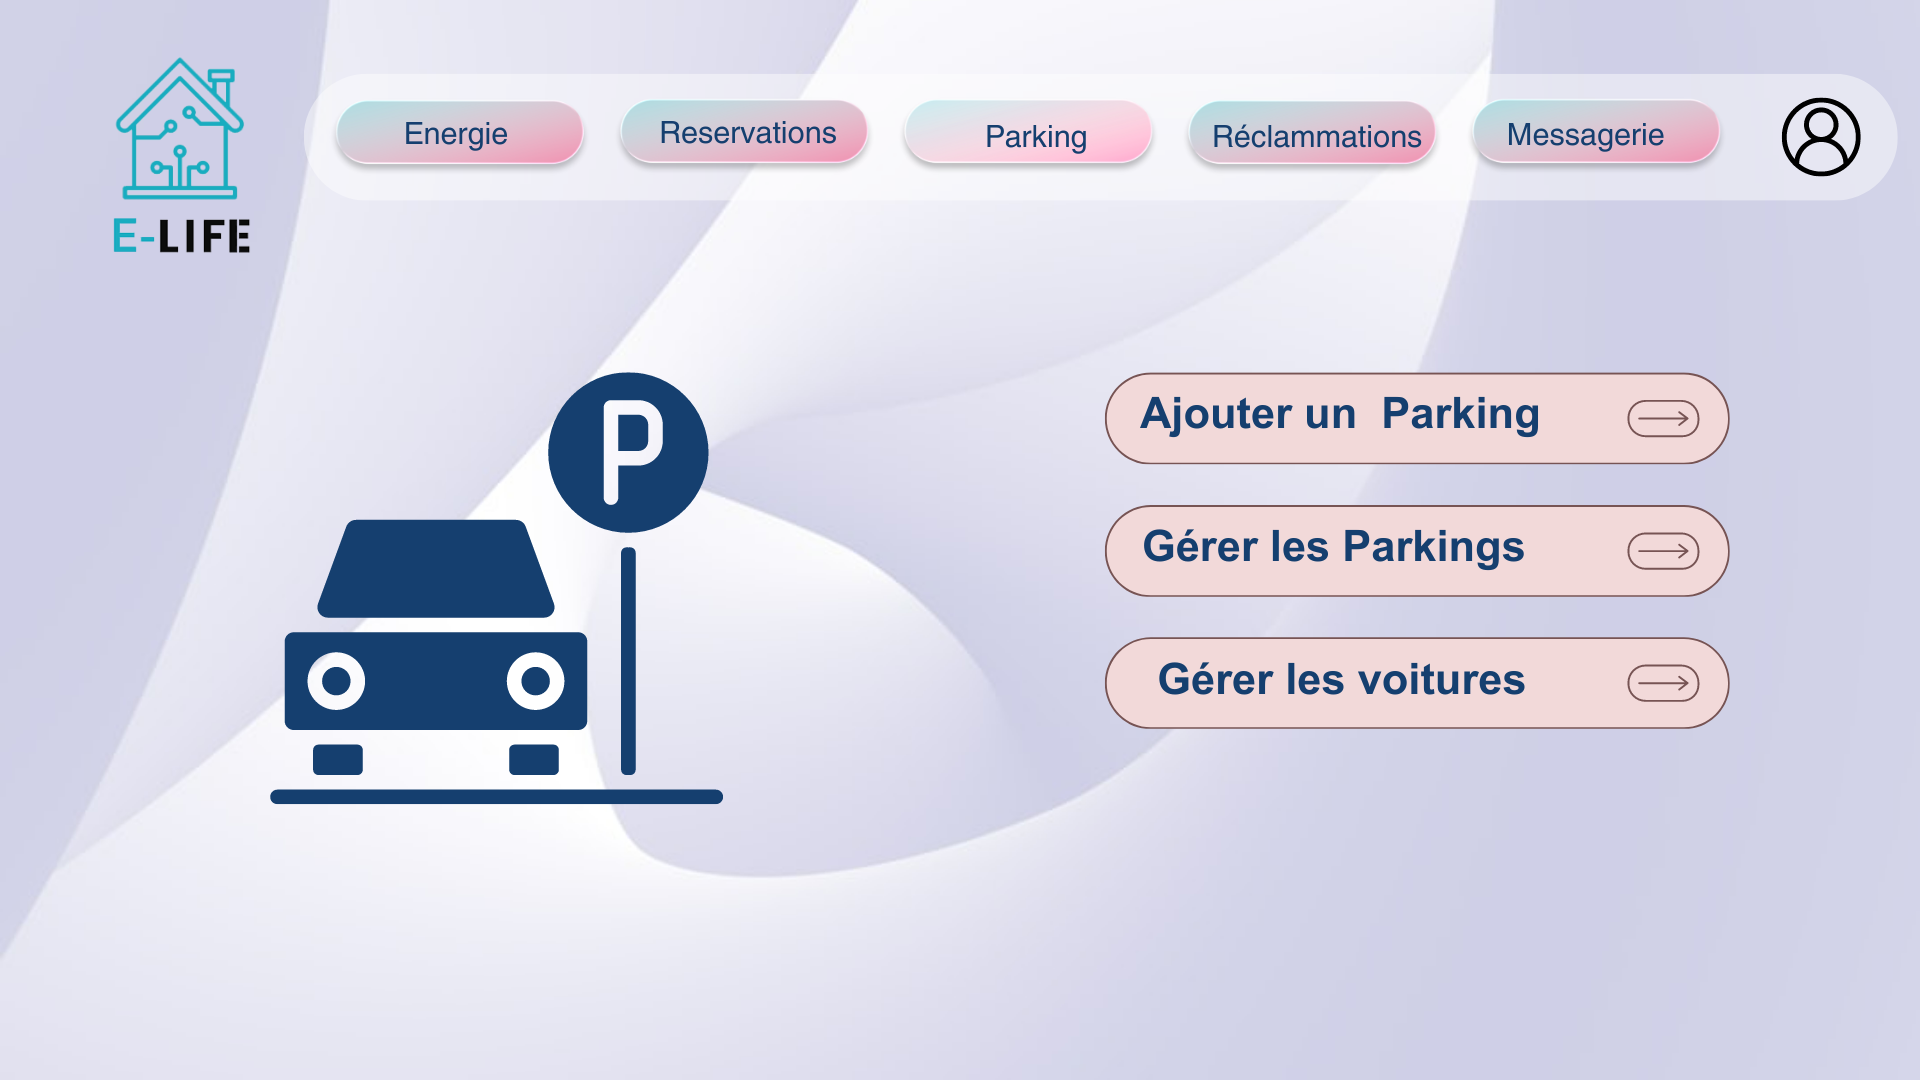
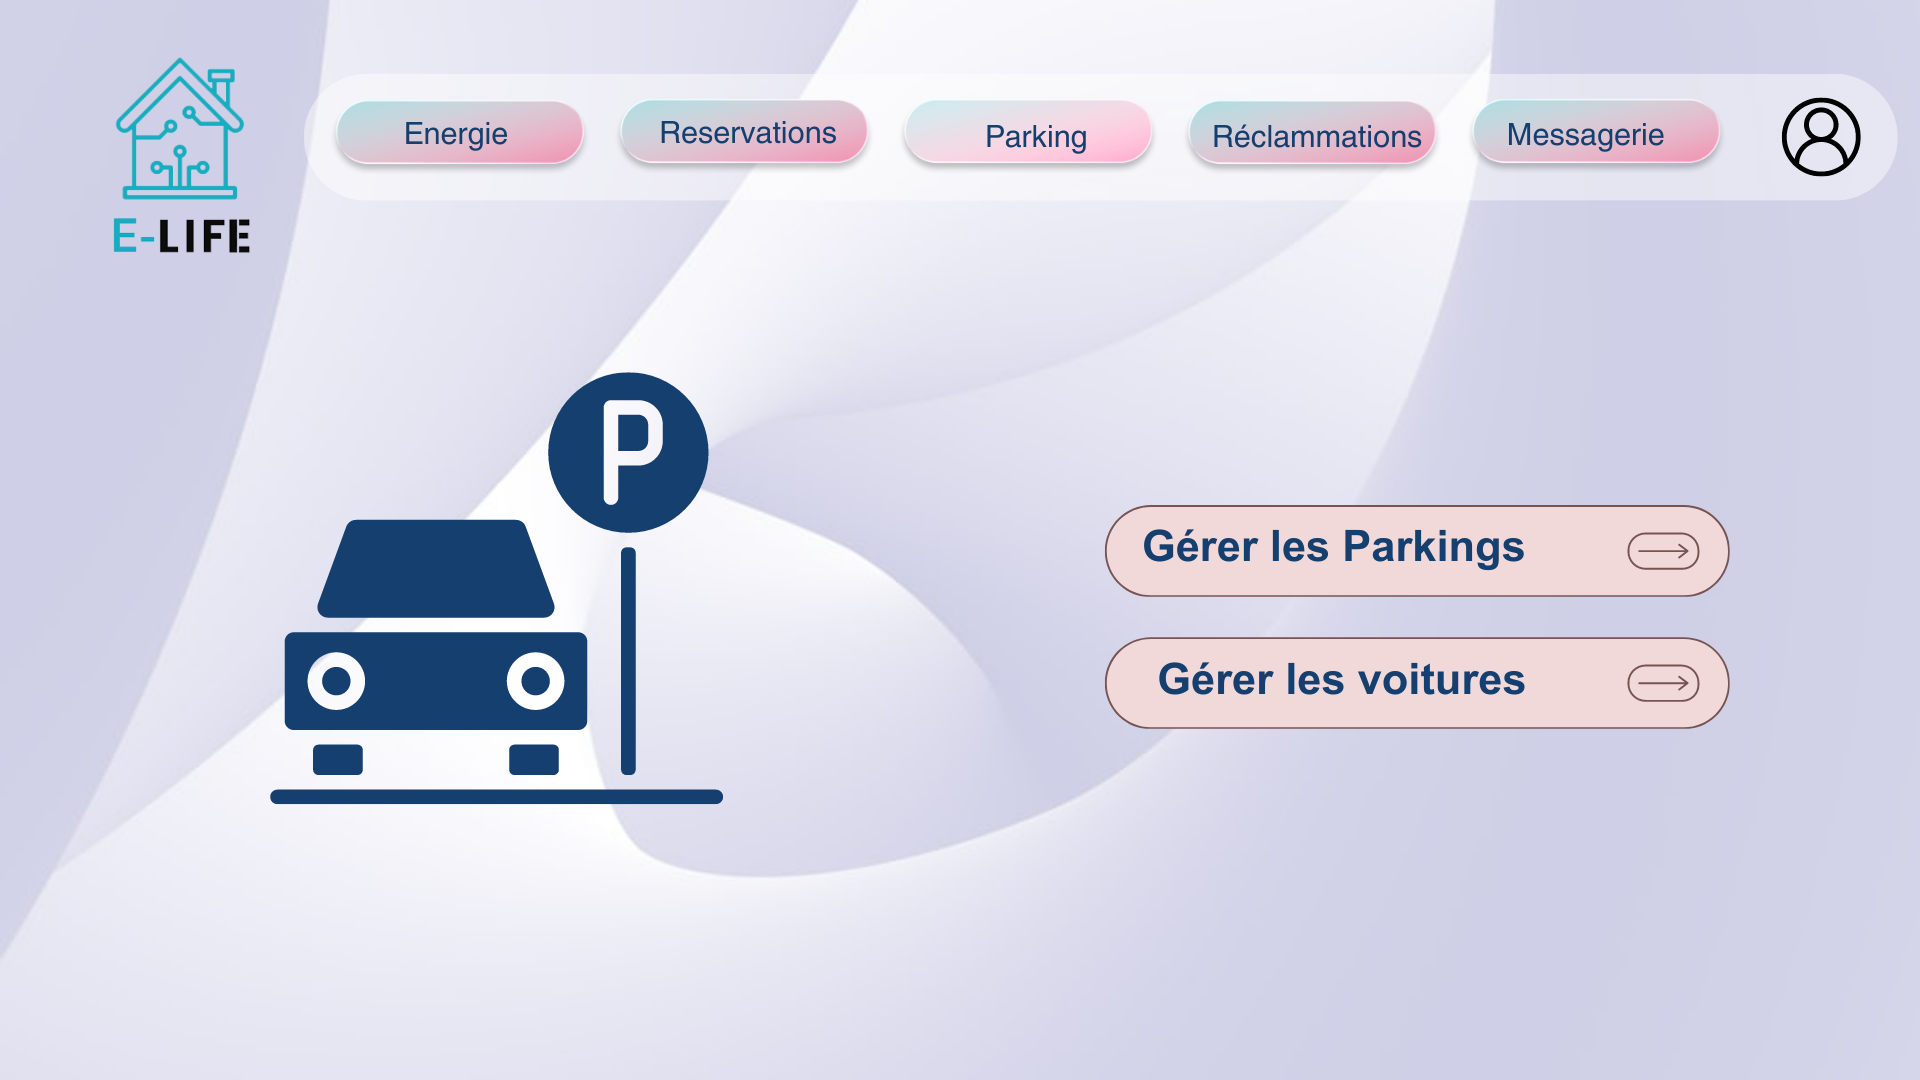
interface final

Changed region(s): [[0.5625, 0.3361, 0.9062, 0.4278]]

diff --git a/src/main/java/controllers/Login.java b/src/main/java/controllers/Login.java
@@ -22,6 +22,7 @@ import java.util.ResourceBundle;
 
 public class Login {
 
+
     @FXML
     private Button cancelbtn;
 
@@ -109,6 +110,34 @@ public class Login {
                                     loginStage.close();
                                 } else {
                                     System.out.println("Failed to retrieve AjouterVoiture controller");
+                                }
+                            } catch (IOException e) {
+                                e.printStackTrace();
+                            }
+                        } else if (role == User.Role.CONCIERGE) {
+                            // Logique pour les concierges
+                            // Par exemple, ouvrir une interface spécifique pour les concierges.
+                            try {
+                                FXMLLoader loader = new FXMLLoader(getClass().getResource("/BtnParking.fxml"));
+                                Parent root = loader.load();
+
+                                BtnParking controller = loader.getController();
+                                if (controller != null) {
+                                    String currentUserEmail = emailfield.getText();
+                                    User currentUser = getCurrentUserFromDatabase(currentUserEmail);
+                                    controller.setCurrentUser(currentUser);
+
+                                    // Afficher la scène
+                                    Scene scene = new Scene(root);
+                                    Stage stage = new Stage();
+                                    stage.setScene(scene);
+                                    stage.show();
+
+                                    // Fermer la fenêtre de connexion
+                                    Stage loginStage = (Stage) loginbtn.getScene().getWindow();
+                                    loginStage.close();
+                                } else {
+                                    System.out.println("Failed to retrieve InterfaceConcierge controller");
                                 }
                             } catch (IOException e) {
                                 e.printStackTrace();

diff --git a/src/main/java/controllers/AjouterParking.java b/src/main/java/controllers/AjouterParking.java
@@ -2,11 +2,18 @@ package controllers;
 
 import entities.Parking;
 import javafx.fxml.FXML;
+import javafx.fxml.FXMLLoader;
+import javafx.scene.Node;
+import javafx.scene.Parent;
+import javafx.scene.Scene;
 import javafx.scene.control.Button;
 import javafx.scene.control.ComboBox;
 import javafx.scene.control.TextField;
+import javafx.stage.Stage;
 import services.ServiceParking;
 
+import java.awt.event.ActionEvent;
+import java.io.IOException;
 import java.sql.SQLException;
 import javafx.scene.control.Alert;
 import javafx.scene.control.Alert.AlertType;
@@ -112,4 +119,20 @@ public class AjouterParking {
         alert.setContentText(contenu);
         alert.showAndWait();
     }
+
+
+
+
+
+    public void retournerVersAcceuil(javafx.event.ActionEvent actionEvent) {
+        try {
+            FXMLLoader loader = new FXMLLoader(getClass().getResource("/BtnParking.fxml"));
+            Parent root = loader.load();
+
+            Stage stage = (Stage) ((Node) actionEvent.getSource()).getScene().getWindow();
+            stage.setScene(new Scene(root));
+            stage.show();
+        } catch (IOException e) {
+            e.printStackTrace();
+        } }
 }

diff --git a/src/main/java/controllers/AfficherParking.java b/src/main/java/controllers/AfficherParking.java
@@ -5,6 +5,7 @@ import javafx.collections.FXCollections;
 import javafx.collections.ObservableList;
 import javafx.fxml.FXML;
 import javafx.fxml.FXMLLoader;
+import javafx.scene.Node;
 import javafx.scene.Parent;
 import javafx.scene.Scene;
 import javafx.scene.control.*;
@@ -297,4 +298,16 @@ public class AfficherParking {
         // Mettre à jour la ListView
         listeParkings.setItems(parkingsObservableList);
     }
+    public void retournerVersAcceuil(javafx.event.ActionEvent actionEvent) {
+        try {
+            FXMLLoader loader = new FXMLLoader(getClass().getResource("/BtnParking.fxml"));
+            Parent root = loader.load();
+
+            Stage stage = (Stage) ((Node) actionEvent.getSource()).getScene().getWindow();
+            stage.setScene(new Scene(root));
+            stage.show();
+        } catch (IOException e) {
+            e.printStackTrace();
+        } }
+
 }

diff --git a/src/main/java/controllers/AfficherVoitureAdmin.java b/src/main/java/controllers/AfficherVoitureAdmin.java
@@ -5,6 +5,7 @@ import javafx.collections.FXCollections;
 import javafx.collections.ObservableList;
 import javafx.fxml.FXML;
 import javafx.fxml.FXMLLoader;
+import javafx.scene.Node;
 import javafx.scene.Parent;
 import javafx.scene.Scene;
 import javafx.scene.control.*;
@@ -247,5 +248,16 @@ public class AfficherVoitureAdmin {
             throwables.printStackTrace();
         }
     }
+    public void retournerVersAcceuil(javafx.event.ActionEvent actionEvent) {
+        try {
+            FXMLLoader loader = new FXMLLoader(getClass().getResource("/BtnParking.fxml"));
+            Parent root = loader.load();
+
+            Stage stage = (Stage) ((Node) actionEvent.getSource()).getScene().getWindow();
+            stage.setScene(new Scene(root));
+            stage.show();
+        } catch (IOException e) {
+            e.printStackTrace();
+        } }
 
 }

diff --git a/src/main/java/controllers/BtnParking.java b/src/main/java/controllers/BtnParking.java
@@ -1,5 +1,6 @@
 package controllers;
 
+import entities.User;
 import javafx.event.ActionEvent;
 import javafx.fxml.FXML;
 import javafx.fxml.FXMLLoader;
@@ -11,11 +12,6 @@ import javafx.stage.Stage;
 import java.io.IOException;
 
 public class BtnParking {
-
-    @FXML
-    private void allerVersAjouterParking(ActionEvent event) {
-        chargerVue("/AjouterParking.fxml", event);
-    }
 
     @FXML
     private void allerVersAfficherParking(ActionEvent event) {
@@ -53,4 +49,6 @@ public class BtnParking {
         }
     }
 
+    public void setCurrentUser(User currentUser) {
+    }
 }
